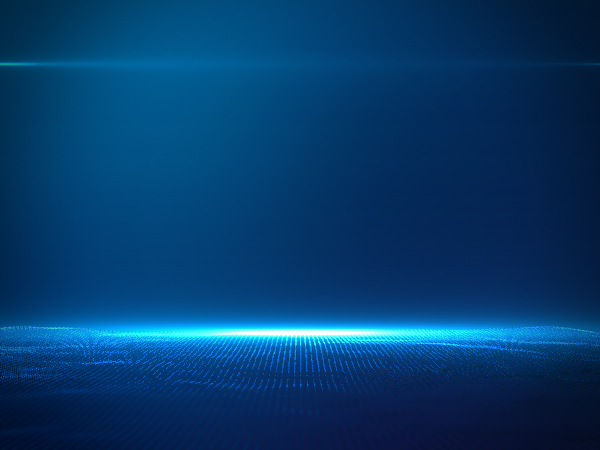
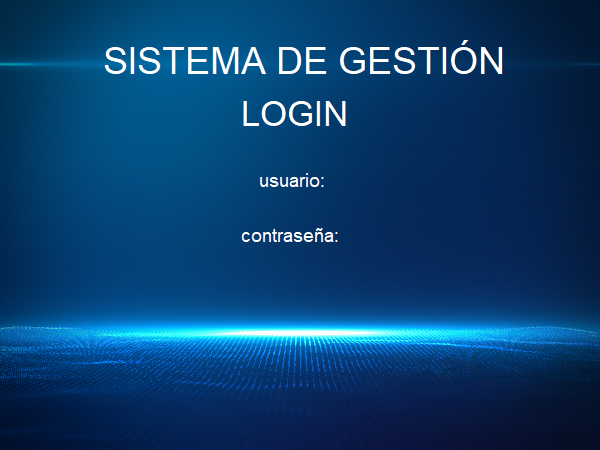
aplicacion-azul

diff --git a/Aplicacion.py b/Aplicacion.py
@@ -1,7 +1,6 @@
 import tkinter as tk
 from tkinter import ttk
 from tkinter import messagebox
-from tkinter.constants import TRUE
 from carga_academica import CargaAcademica
 from gestor_bd import Gestor
 from gestionar_horarios import Horarios
@@ -23,22 +22,14 @@ class App(tk.Tk):
         self.imagen = tk.PhotoImage(file = login_fondo)
         tk.Label(self, image = self.imagen,bd=0).place(x=0, y=0)
 
-        self.tittle1 = ttk.Label(text='SISTEMA DE GESTIÓN ', font=('Helvetica',18))
-        self.tittle1.place(x=20,y=20)
-        self.tittle2 = ttk.Label(text='LOGIN ', font=('Helvetica',12))
-        self.tittle2.place(x=125,y=60)
-        self.tittleUser = ttk.Label(text='Usuario')
-        self.tittleUser.place(x=130,y=110)
         self.userName = ttk.Entry(self,width=40)
-        self.userName.place(x=25,y=130)
+        self.userName.place(x=165,y=200)
         self.userName.focus()
-        self.tittlePassword = ttk.Label(text='Contraseña')
-        self.tittlePassword.place(x=120,y=160)
         self.userPassword = ttk.Entry(self,width=40)
         self.userPassword.config(show='*')
-        self.userPassword.place(x=25,y=180)
+        self.userPassword.place(x=165,y=250)
         self.button = ttk.Button(self, text='Iniciar Sesión', command=self.change)
-        self.button.place(x=110,y=210)
+        self.button.place(x=250,y=285)
 
     def conexion(self,query,parametros = ()):
             try:
@@ -61,12 +52,8 @@ class App(tk.Tk):
         if self.validarCeldas():
             validar = self.conexion('SELECT * FROM usuario_admin WHERE Usuario = ? and Contraseña = ? and Estado = "Activo"', (self.userName.get(),self.userPassword.get())).fetchall()
             if validar:
-                self.tittle1.place_forget()
-                self.tittle1.place_forget()
-                self.tittleUser.place_forget()
                 self.userName.place_forget()
                 self.userPassword.place_forget()
-                self.tittlePassword.place_forget()
                 self.button.place_forget()
                 self.pantallaPrincipal()
             else:
